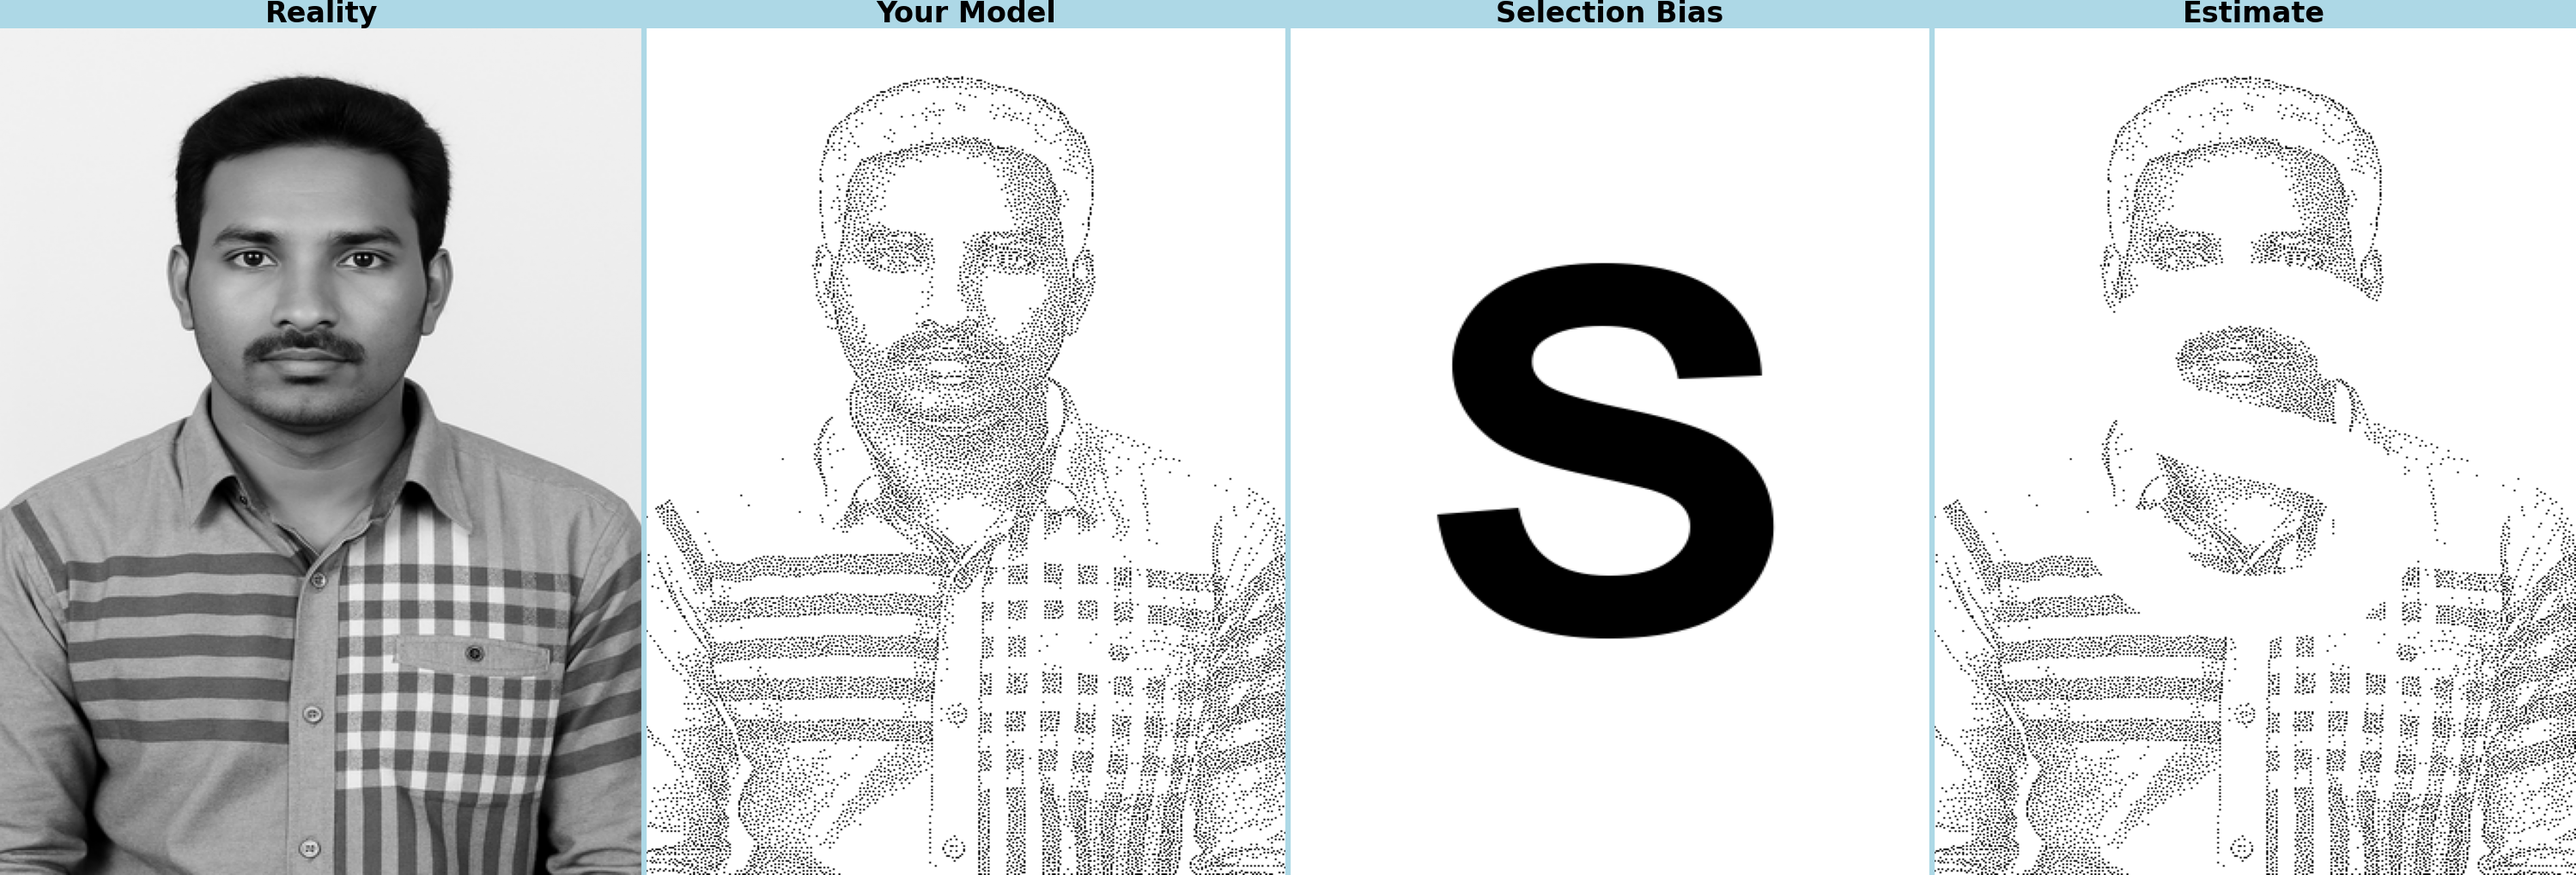
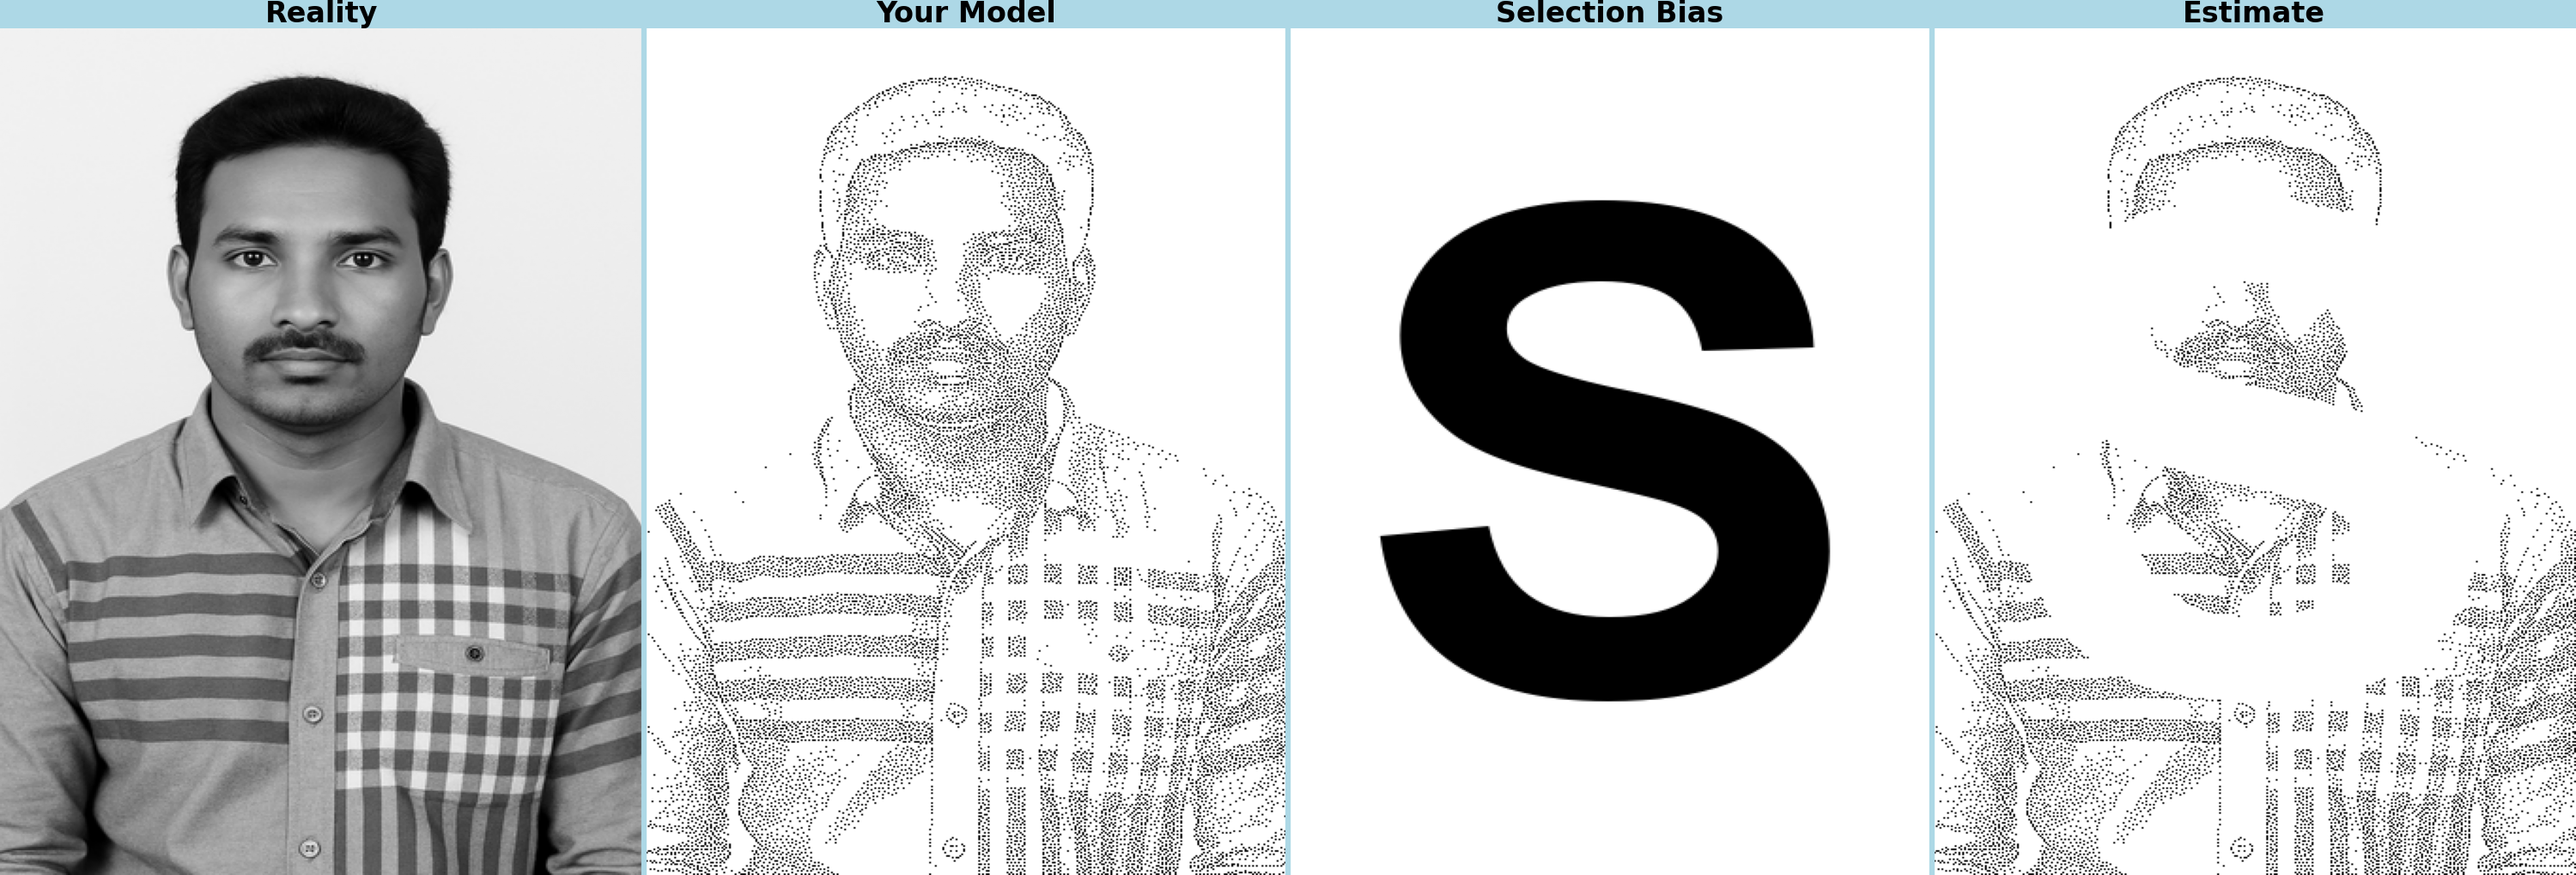
updated

diff --git a/step4_create_block_letter.py b/step4_create_block_letter.py
@@ -39,8 +39,8 @@ def create_block_letter_s(
     img = Image.new('L', (width, height), color=255)
     draw = ImageDraw.Draw(img)
     
-    # Calculate font size based on the smaller dimension
-    font_size = int(min(height, width) * font_size_ratio)
+    # Calculate font size based on the image height for better scaling
+    font_size = int(height * font_size_ratio)
     
     # Try to find a suitable bold font
     font = None
